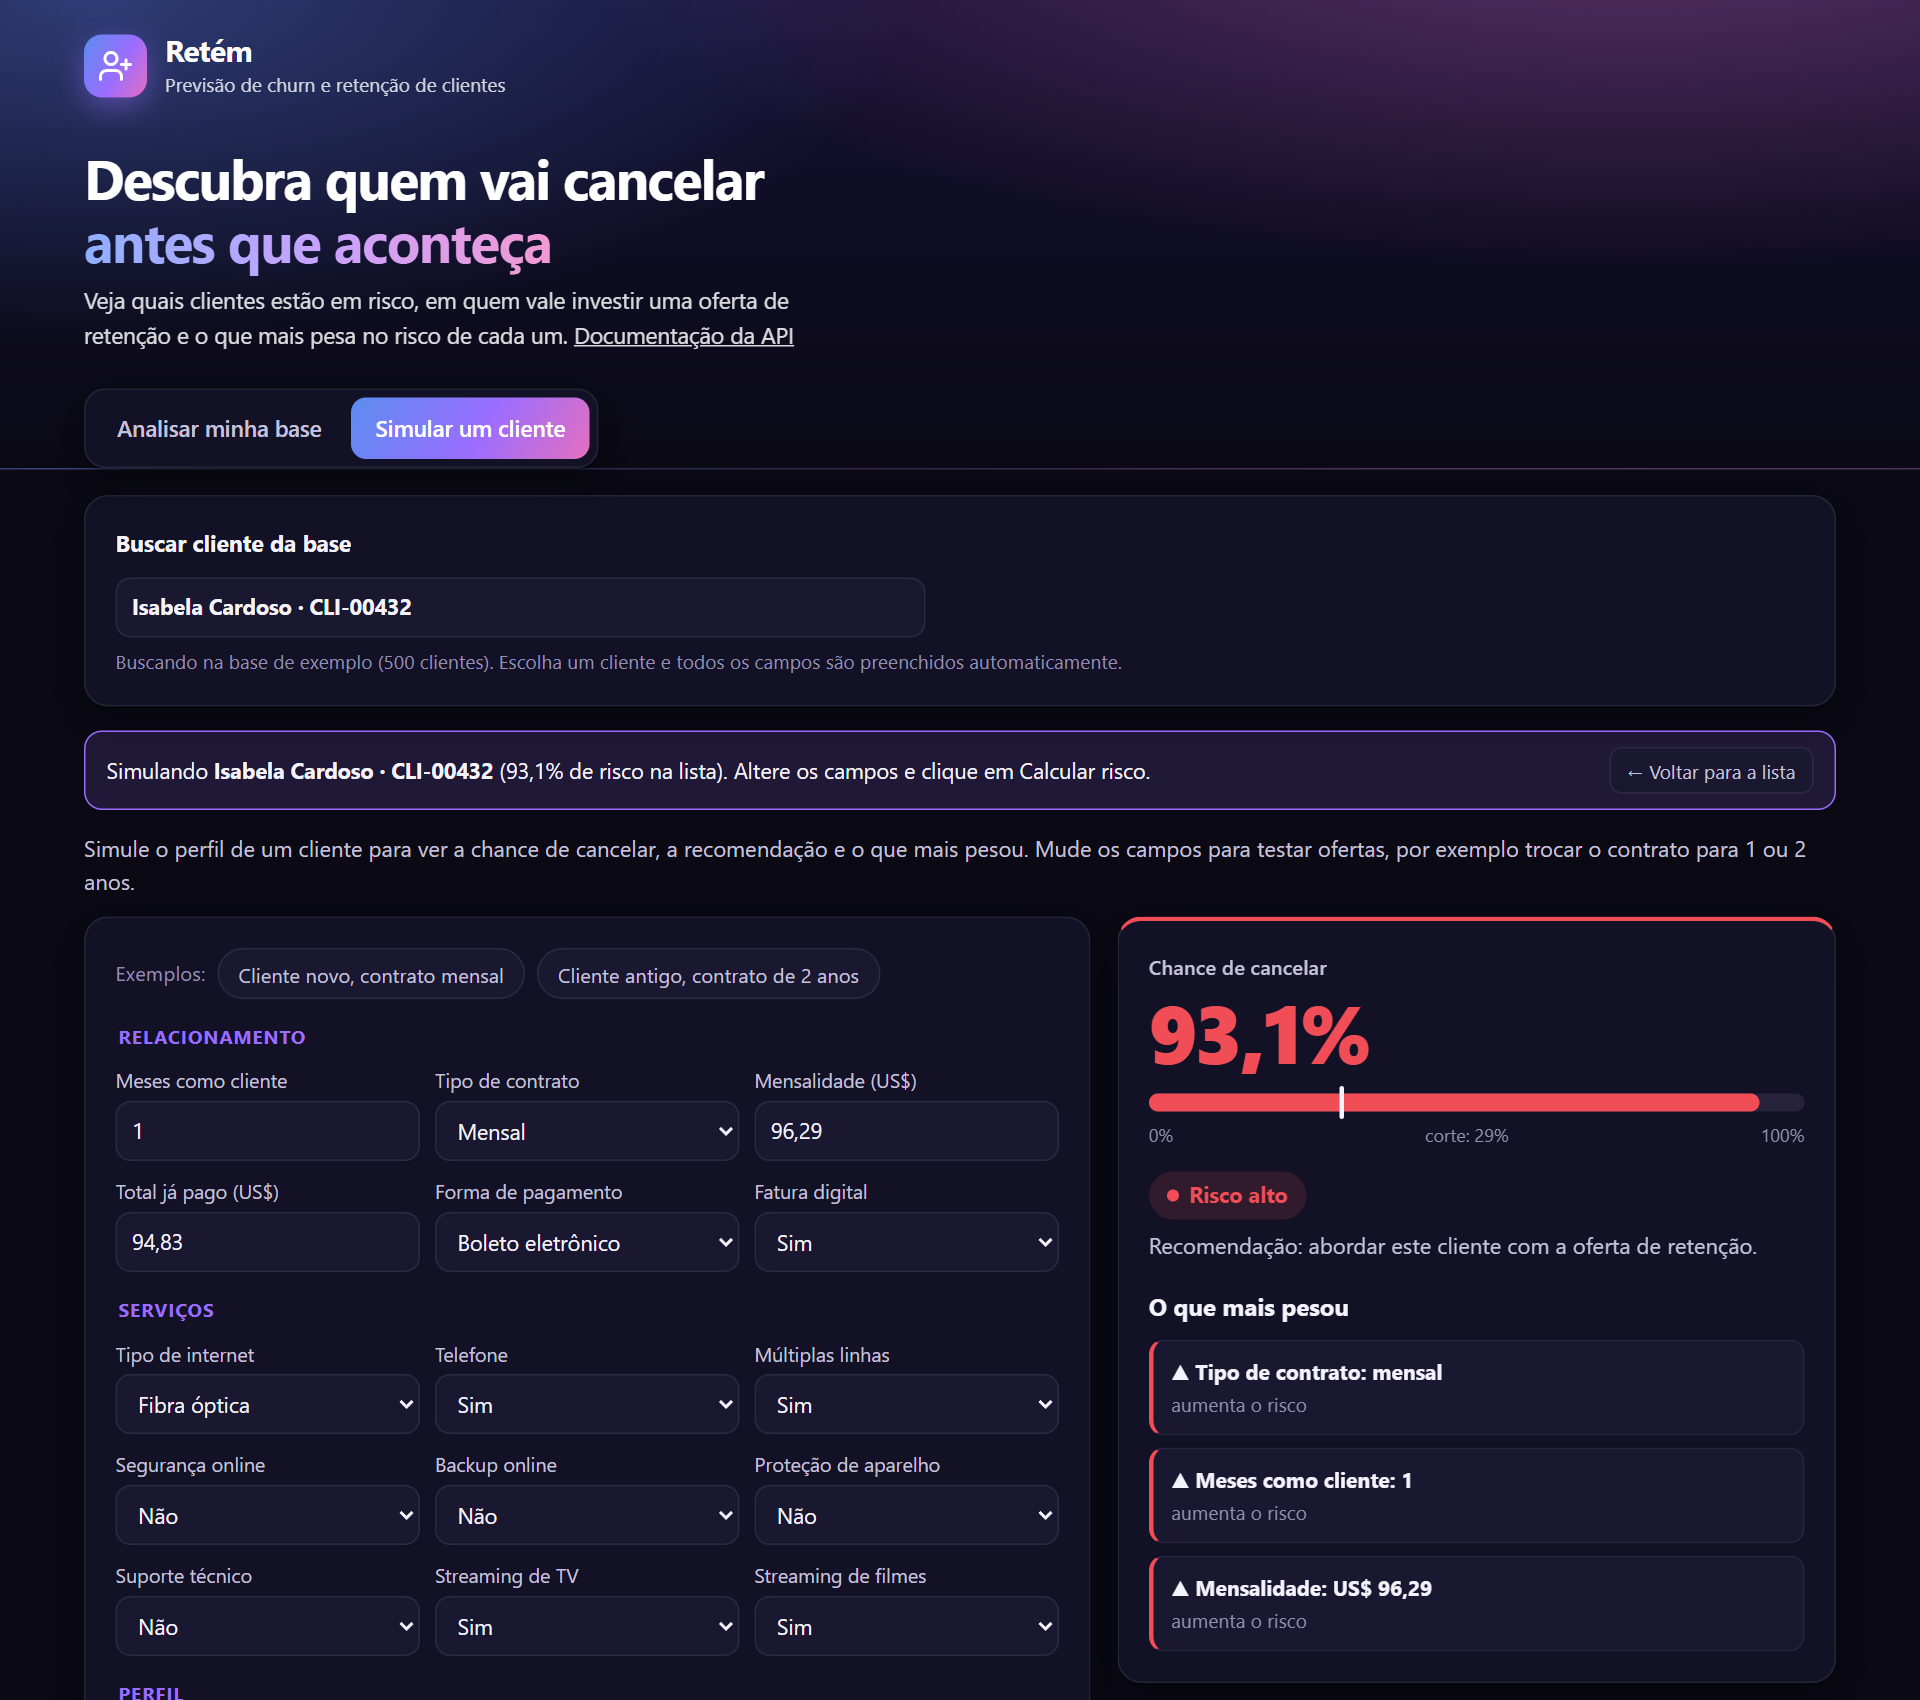
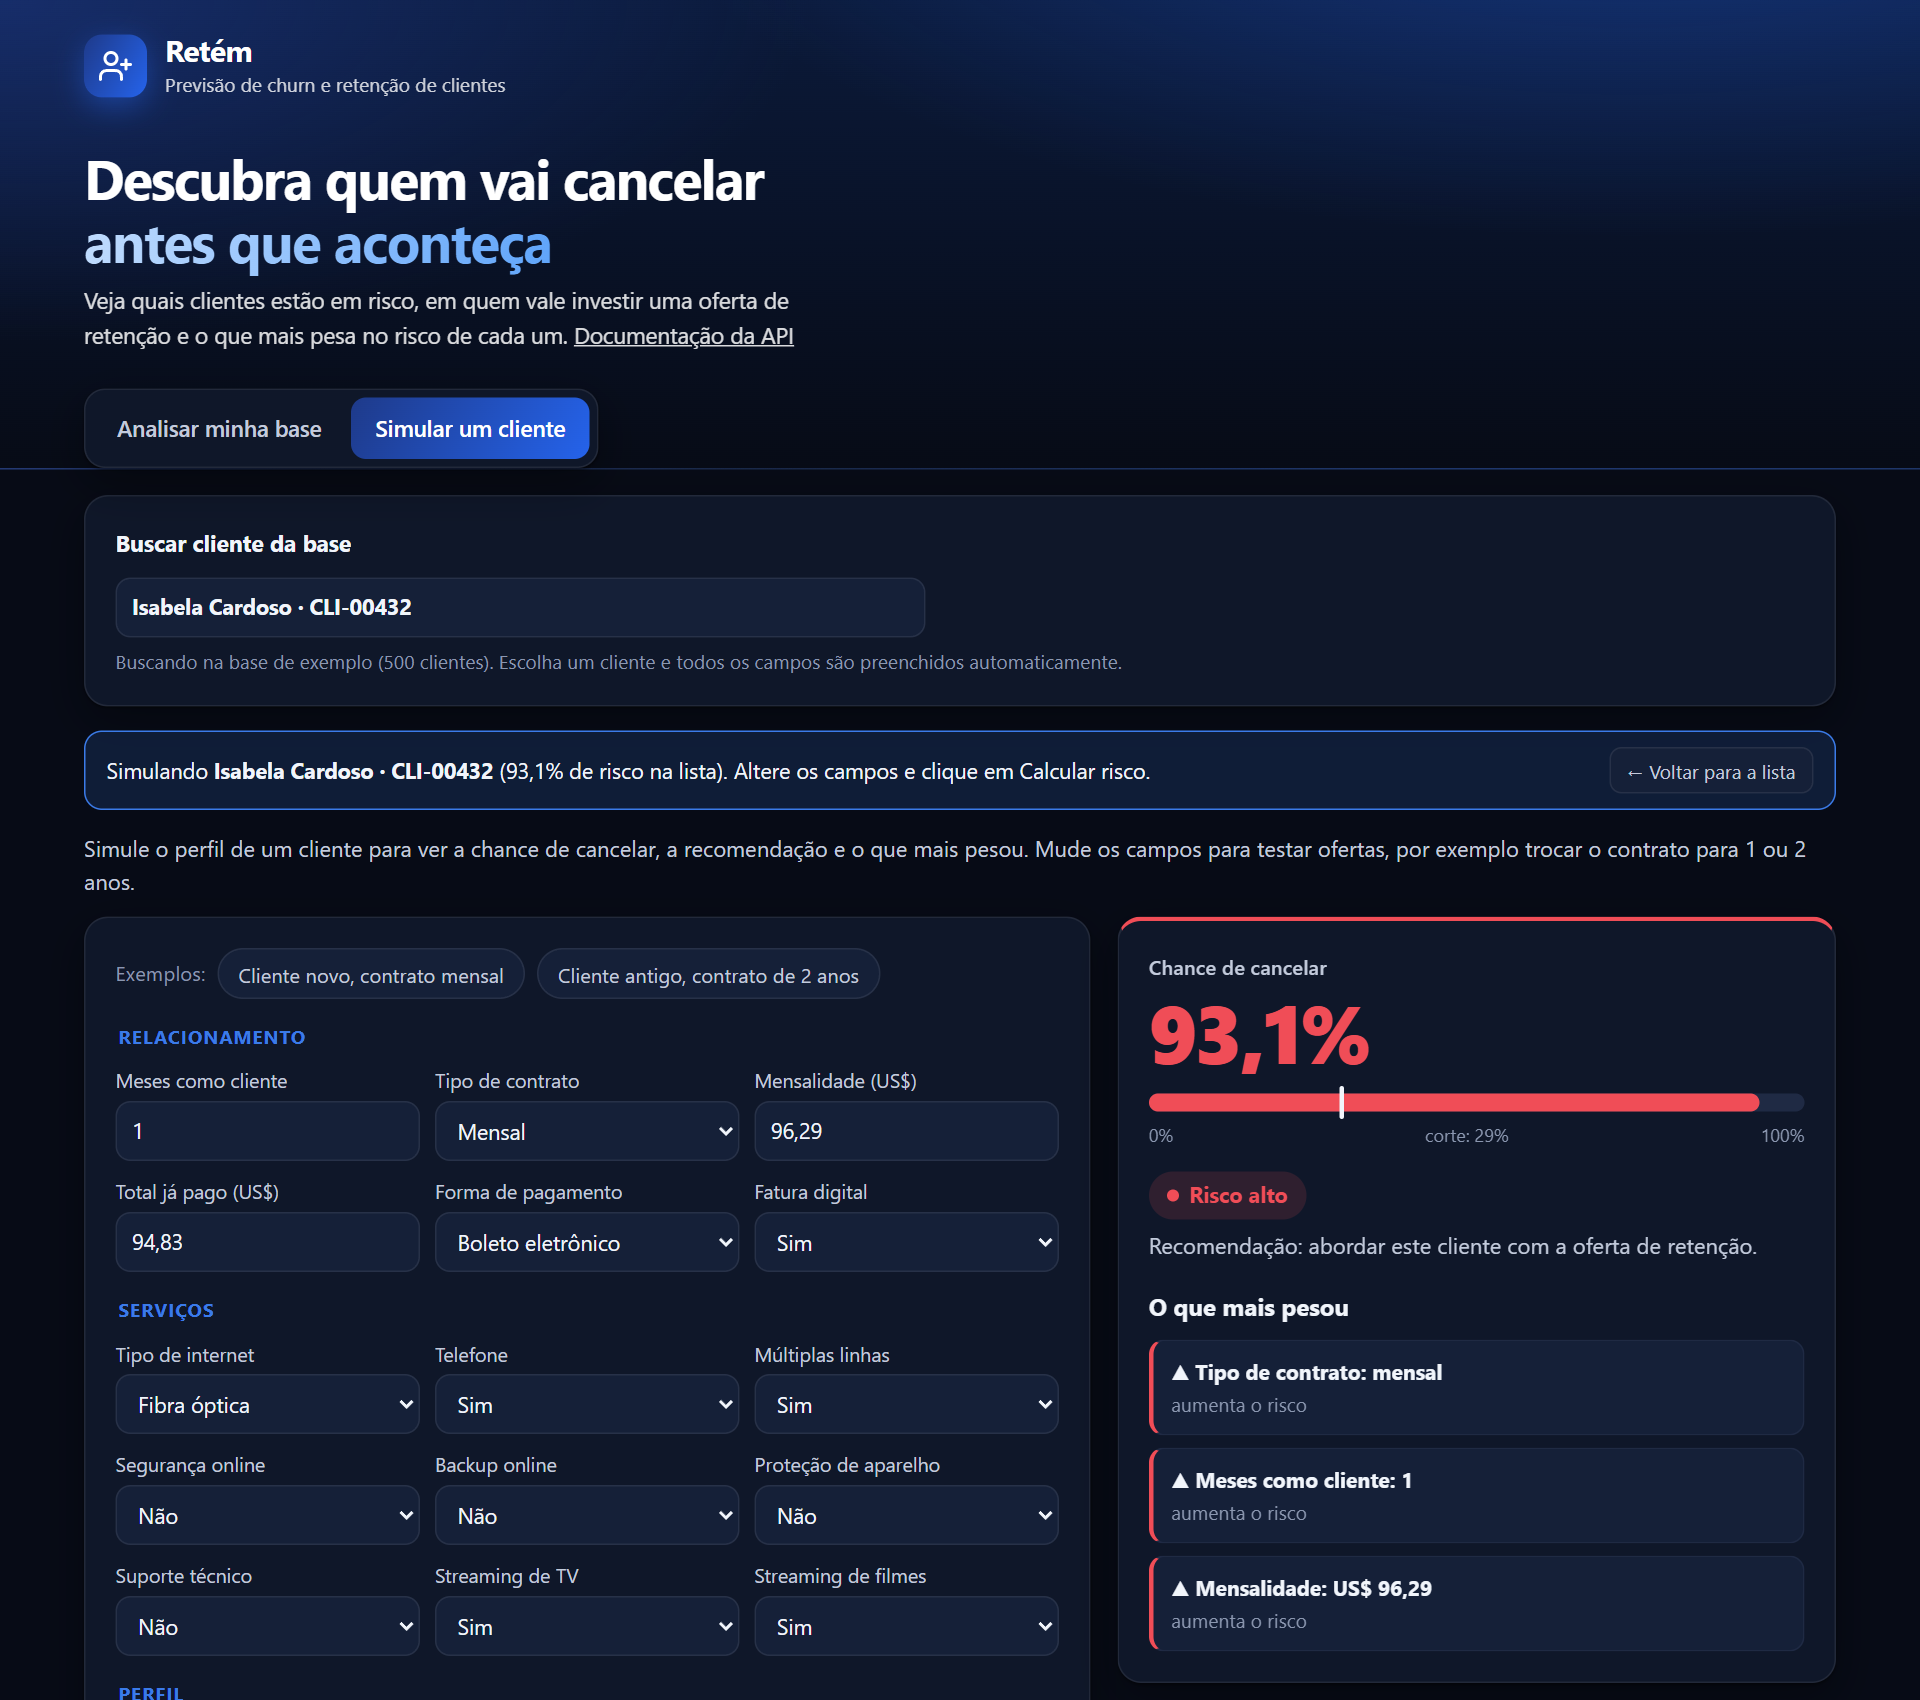
Troca a paleta do Retém para azul e azul-marinho

diff --git a/api/static/index.html b/api/static/index.html
@@ -9,25 +9,14 @@
 <style>
 :root,:root[data-theme="dark"]{
   color-scheme:dark;
-  --page:#0a0914; --surface:#131126; --surface-2:#1a1731; --ink:#f4f2fb; --ink-2:#c6c1dc; --muted:#948fb2;
-  --line:#28243f; --border:rgba(255,255,255,.08); --shadow:0 1px 2px rgba(0,0,0,.45),0 10px 30px rgba(0,0,0,.35);
-  --azul:#5b8def; --roxo:#9b6dff; --rosa:#e46fbf;
-  --azul-bg:rgba(91,141,239,.14); --roxo-bg:rgba(155,109,255,.15); --rosa-bg:rgba(228,111,191,.14);
-  --grad:linear-gradient(120deg,#5b8def 0%,#9b6dff 55%,#e46fbf 100%);
-  --hero:radial-gradient(1200px 400px at 85% -20%,rgba(228,111,191,.35),transparent 60%),radial-gradient(900px 380px at 5% 0%,rgba(91,141,239,.35),transparent 60%),linear-gradient(180deg,#141033,#0a0914);
+  --page:#070b16; --surface:#0f1729; --surface-2:#152038; --ink:#f1f5fb; --ink-2:#c3cbdc; --muted:#8b97b0;
+  --line:#1f2a44; --border:rgba(255,255,255,.08); --shadow:0 1px 2px rgba(0,0,0,.45),0 10px 30px rgba(0,0,0,.35);
+  --azul:#5b9cf5; --roxo:#3b7be8; --rosa:#8cb8ff;
+  --azul-bg:rgba(91,156,245,.14); --roxo-bg:rgba(59,123,232,.16); --rosa-bg:rgba(140,184,255,.13);
+  --grad:linear-gradient(120deg,#1e3a8a 0%,#2563eb 100%);
+  --hero:radial-gradient(1100px 420px at 85% -30%,rgba(37,99,235,.40),transparent 60%),radial-gradient(900px 380px at 0% 0%,rgba(30,58,138,.60),transparent 60%),linear-gradient(180deg,#0b1a3a,#070b16);
   --alto:#f04d57; --alto-bg:rgba(240,77,87,.14); --medio:#f5b53d; --medio-bg:rgba(245,181,61,.14); --baixo:#2fcf7a; --baixo-bg:rgba(47,207,122,.13);
-  --track:#27233d;
-}
-:root[data-theme="light"]{
-  color-scheme:light;
-  --page:#f5f4fb; --surface:#ffffff; --surface-2:#f7f6fc; --ink:#17142b; --ink-2:#4d4868; --muted:#6f6a8a;
-  --line:#e7e4f2; --border:rgba(23,20,43,.09); --shadow:0 1px 2px rgba(23,20,43,.05),0 6px 18px rgba(23,20,43,.07);
-  --azul:#3563d9; --roxo:#7443e0; --rosa:#c2449b;
-  --azul-bg:#eaf0fd; --roxo-bg:#f0eafd; --rosa-bg:#fbeaf5;
-  --grad:linear-gradient(120deg,#3563d9 0%,#7443e0 55%,#c2449b 100%);
-  --hero:radial-gradient(1200px 400px at 85% -20%,rgba(194,68,155,.45),transparent 60%),radial-gradient(900px 380px at 5% 0%,rgba(53,99,217,.55),transparent 60%),linear-gradient(180deg,#1d1747,#2a1f5c);
-  --alto:#d92d3a; --alto-bg:#fdecee; --medio:#b7791f; --medio-bg:#fdf4e3; --baixo:#138a4c; --baixo-bg:#e6f6ed;
-  --track:#e9e6f3;
+  --track:#1f2a44;
 }
 *{box-sizing:border-box;margin:0}
 [hidden]{display:none!important}
@@ -43,15 +32,15 @@ button{font:inherit;cursor:pointer}
 .hero .wrap{padding-bottom:0}
 .hero-top{display:flex;justify-content:space-between;align-items:center;gap:12px}
 .marca{display:flex;align-items:center;gap:12px;text-decoration:none;color:#fff}
-.logo{width:42px;height:42px;border-radius:12px;background:var(--grad);display:grid;place-items:center;box-shadow:0 6px 20px rgba(155,109,255,.45)}
+.logo{width:42px;height:42px;border-radius:12px;background:var(--grad);display:grid;place-items:center;box-shadow:0 6px 20px rgba(37,99,235,.45)}
 .logo svg{width:24px;height:24px}
 .marca b{display:block;font-size:1.25rem;letter-spacing:-.02em;line-height:1.1}
 .marca small{font-size:.8rem;opacity:.8}
 .tema{display:inline-flex;border:1px solid rgba(255,255,255,.2);border-radius:999px;padding:3px;background:rgba(255,255,255,.06)}
 .tema button{border:0;background:none;color:rgba(255,255,255,.85);font-size:.82rem;padding:5px 12px;border-radius:999px}
-.tema button[aria-pressed="true"]{background:#fff;color:#1d1747}
+.tema button[aria-pressed="true"]{background:#fff;color:#0b1a3a}
 .hero h1{font-size:clamp(1.6rem,3.6vw,2.3rem);letter-spacing:-.03em;line-height:1.15;margin:30px 0 8px;max-width:24ch}
-.hero h1 em{font-style:normal;background:linear-gradient(90deg,#8fb0ff,#c7a3ff,#f29ad3);-webkit-background-clip:text;background-clip:text;color:transparent}
+.hero h1 em{font-style:normal;background:linear-gradient(90deg,#bfdbfe,#60a5fa);-webkit-background-clip:text;background-clip:text;color:transparent}
 .hero p{max-width:64ch;opacity:.85}
 
 /* ---------- abas ---------- */
@@ -65,7 +54,7 @@ button{font:inherit;cursor:pointer}
 .acoes{display:flex;flex-wrap:wrap;gap:10px;align-items:center}
 .btn{display:inline-flex;align-items:center;gap:8px;border:1px solid var(--border);background:var(--surface-2);color:var(--ink);border-radius:10px;padding:10px 16px;font-weight:600;font-size:.9rem;transition:transform .12s,box-shadow .12s}
 .btn:hover{transform:translateY(-1px)}
-.btn.pri{background:var(--grad);color:#fff;border-color:transparent;box-shadow:0 6px 18px rgba(155,109,255,.3)}
+.btn.pri{background:var(--grad);color:#fff;border-color:transparent;box-shadow:0 6px 18px rgba(37,99,235,.35)}
 .btn:disabled{opacity:.55;cursor:wait;transform:none}
 .links{display:flex;flex-wrap:wrap;gap:18px;font-size:.85rem;margin-top:12px}
 .links a{color:var(--ink-2)}
@@ -85,7 +74,7 @@ select:focus,input:focus{outline:2px solid var(--roxo);outline-offset:1px}
 .chip[aria-pressed="true"]{background:var(--grad);color:#fff;border-color:transparent}
 .presets{display:flex;flex-wrap:wrap;gap:8px;margin-bottom:16px}
 .presets span{color:var(--muted);font-size:.85rem;align-self:center}
-.go{width:100%;border:0;border-radius:12px;padding:12px;background:var(--grad);color:#fff;font-weight:700;margin-top:4px;box-shadow:0 6px 18px rgba(155,109,255,.3)}
+.go{width:100%;border:0;border-radius:12px;padding:12px;background:var(--grad);color:#fff;font-weight:700;margin-top:4px;box-shadow:0 6px 18px rgba(37,99,235,.35)}
 
 /* ---------- indicadores ---------- */
 .kpis{display:grid;grid-template-columns:repeat(auto-fit,minmax(200px,1fr));gap:14px;margin:18px 0}
